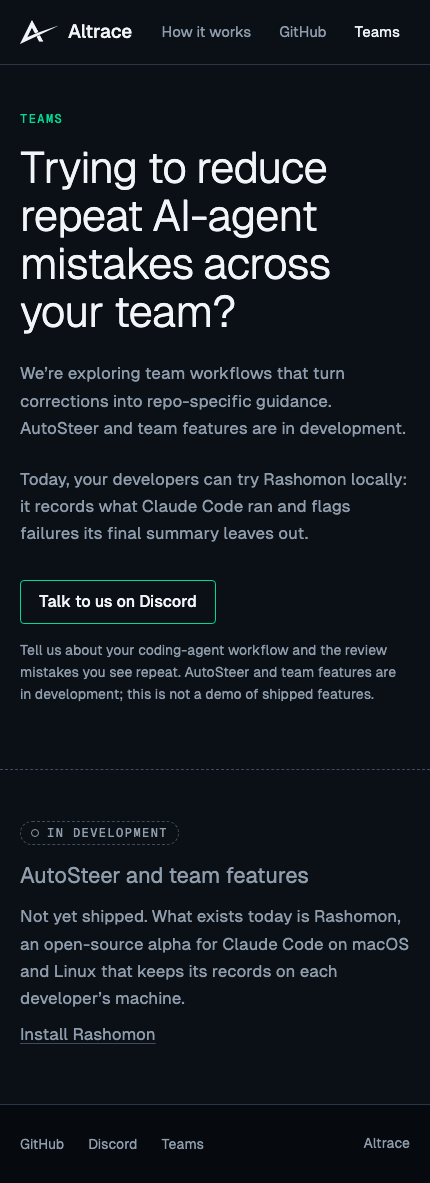
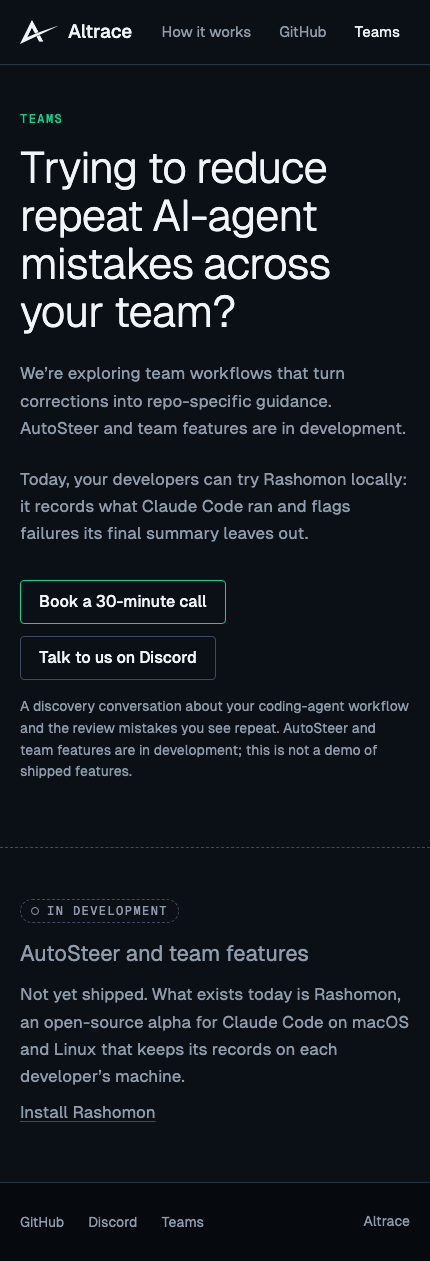
Teams: add a "Book a 30-minute call" button (#7)
* Teams: add a "Book a 30-minute call" button

A primary button to calendly.com/altrace-info/30min, opened in a new tab
as a plain link: no Calendly script, so no CSP change. "Talk to us on
Discord" becomes the secondary button. The line under them says what the
call is, and that team features are not shipped. The meta description
mentions booking a call. The homepage and nav are unchanged.

* QA screenshots with the booking button on Teams

---------

diff --git a/site/for-teams.html b/site/for-teams.html
@@ -4,7 +4,7 @@
 <meta charset="utf-8">
 <meta name="viewport" content="width=device-width,initial-scale=1">
 <title>Teams · Altrace</title>
-<meta name="description" content="Altrace is exploring team workflows that turn corrections into repo-specific guidance. AutoSteer and team features are in development. Talk to us on Discord.">
+<meta name="description" content="Altrace is exploring team workflows that turn corrections into repo-specific guidance. AutoSteer and team features are in development. Book a 30-minute call or talk to us on Discord.">
 <link rel="canonical" href="https://www.altrace.io/for-teams">
 <meta property="og:type" content="website">
 <meta property="og:url" content="https://www.altrace.io/for-teams">
@@ -47,9 +47,10 @@
       <p class="prose">We’re exploring team workflows that turn corrections into repo-specific guidance. AutoSteer and team features are in development.</p>
       <p class="prose">Today, your developers can try Rashomon locally: it records what Claude Code ran and flags failures its final summary leaves out.</p>
       <div class="actions">
-        <a class="button button-primary" href="https://discord.gg/Qg3hybAHpU">Talk to us on Discord</a>
+        <a class="button button-primary" href="https://calendly.com/altrace-info/30min" target="_blank" rel="noopener noreferrer">Book a 30-minute call</a>
+        <a class="button" href="https://discord.gg/Qg3hybAHpU">Talk to us on Discord</a>
       </div>
-      <p class="expect">Tell us about your coding-agent workflow and the review mistakes you see repeat. AutoSteer and team features are in development; this is not a demo of shipped features.</p>
+      <p class="expect">A discovery conversation about your coding-agent workflow and the review mistakes you see repeat. AutoSteer and team features are in development; this is not a demo of shipped features.</p>
     </div>
   </section>
 
